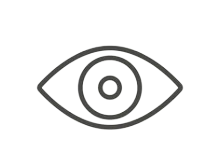
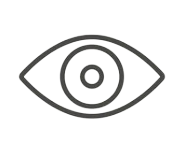
Fixed UI when shhowing password

Changed region(s): [[0.0824, 0.2078, 0.9066, 0.8052]]

diff --git a/src/frontend/screens/AccountScreen.js b/src/frontend/screens/AccountScreen.js
@@ -15,22 +15,45 @@ const AccountInfo = () => {
           <Text style = {{fontSize : 15, fontWeight : 'bold'}}> Informations personnelles </Text>
         </View> 
         <View style = {{padding : 8}}>
-          <View style = {{flexDirection : "row", justifyContent : "space-between"}}>
+          <View style = {{justifyContent : "flex-start", paddingVertical: 15}}>
             <Text>Mot de passe : </Text>
-            {showPassword ? (
-            <Text>{route.params.password}</Text>
-          ) : (
-            <Text>****</Text>
-          )}
-            <Pressable onPress={() => setShowPassword(!showPassword)}>
-                <View style = {{flexDirection : "row"}}>
-                    <Image source = {require("../assets/eye.png")} style = {{height : 12, width : 22, marginRight : 20}} />
+            <View style = {{flex : 1, flexDirection : "row"}}>
+               <View style = {{flex : 0.65, justifyContent : "center"}}>
+                  {showPassword ? (
+                  <Text>{route.params.password}</Text>
+                  ) : (
+                    <Text>{"• ".repeat(route.params.password.length)}</Text>
+                  )}
                 </View>
-            </Pressable>
+              <View style = {{flexDirection : "row", flex : 0.35, justifyContent : "space-around"}}>
+                <Pressable style = {{borderRadius : 5, borderWidth : 1, borderColor : "#444"}} onPress={() => setShowPassword(!showPassword)}>
+                      <Image source = { showPassword ? require("../assets/eye_closed.png") : require("../assets/eye.png")} style = {{height : 22, width : 22}}/>
+                </Pressable>
+                <Pressable style = {{borderRadius : 5, borderWidth : 1, borderColor : "#444"}} onPress={() => Alert.alert("FS V3")}>
+                      <Image source = {require("../assets/parameters.png")} style = {{height : 22, width : 22}}/>
+                </Pressable>
+              </View>
+            </View>
           </View>
-          <View style = {{flexDirection : "row", justifyContent : "space-between"}}>
+          <View style = {{justifyContent : "flex-start", paddingBottom: 15}}>
             <Text>Numéro de téléphone : </Text>
-            <Text>** ** ** ** **</Text>
+            <View style = {{flex : 1, flexDirection : "row", justifyContent : "space-between"}}>
+              <View style = {{flex : 0.65, justifyContent : "center"}}>
+                {false ? (
+                  <Text>placeholder</Text>
+                ) : (
+                  <Text>{"• •  ".repeat(5)}</Text>
+                )}
+              </View>
+              <View style = {{flexDirection : "row", flex : 0.35, justifyContent : "space-around"}}>
+                <Pressable style = {{borderRadius : 5, borderWidth : 1, borderColor : "#444"}} onPress={() => Alert.alert("FP V2")}>
+                      <Image source = { false ? require("../assets/eye_closed.png") : require("../assets/eye.png")} style = {{height : 22, width : 22}}/>
+                </Pressable>
+                <Pressable style = {{borderRadius : 5, borderWidth : 1, borderColor : "#444"}} onPress={() => Alert.alert("FS V3")}>
+                      <Image source = {require("../assets/parameters.png")} style = {{height : 22, width : 22}}/>
+                </Pressable>
+              </View>
+            </View>
           </View>
         </View>
     </View>
